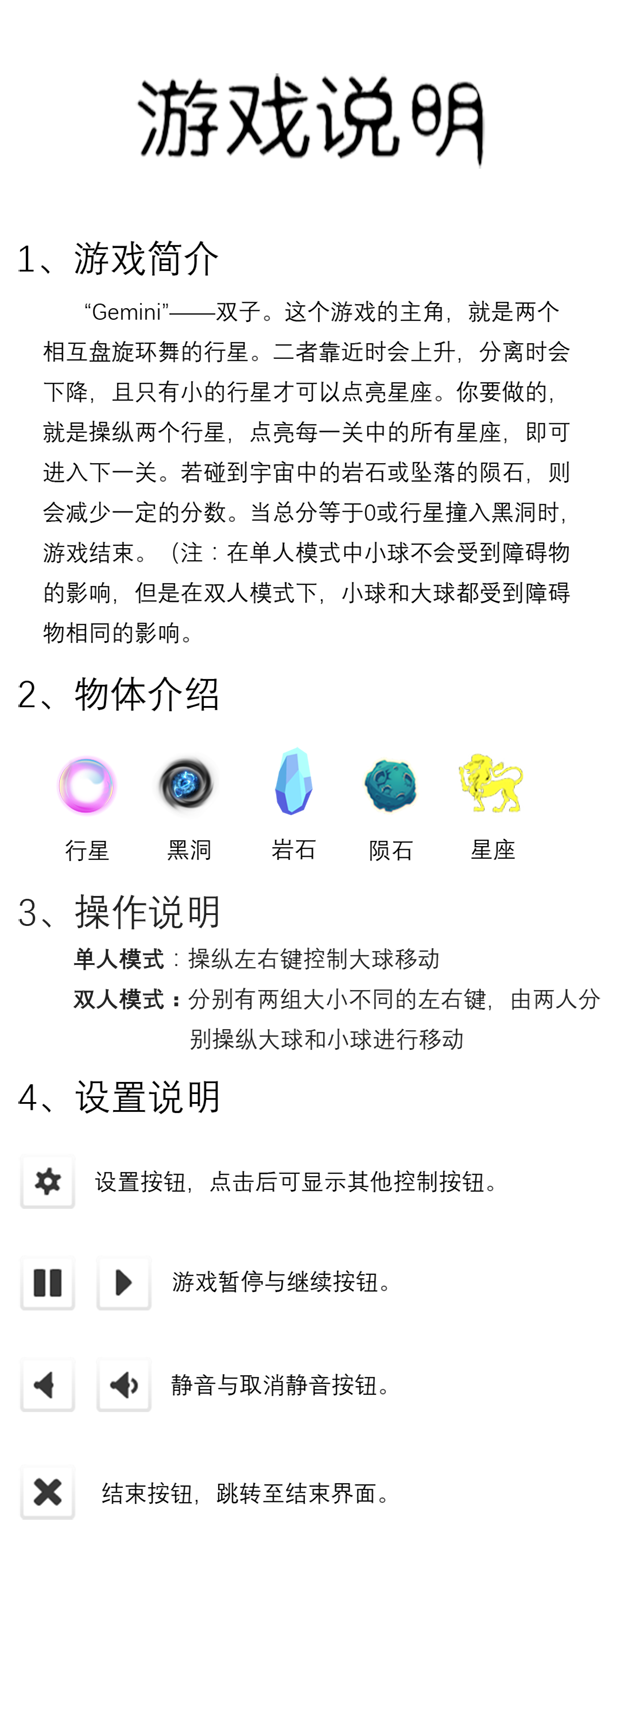
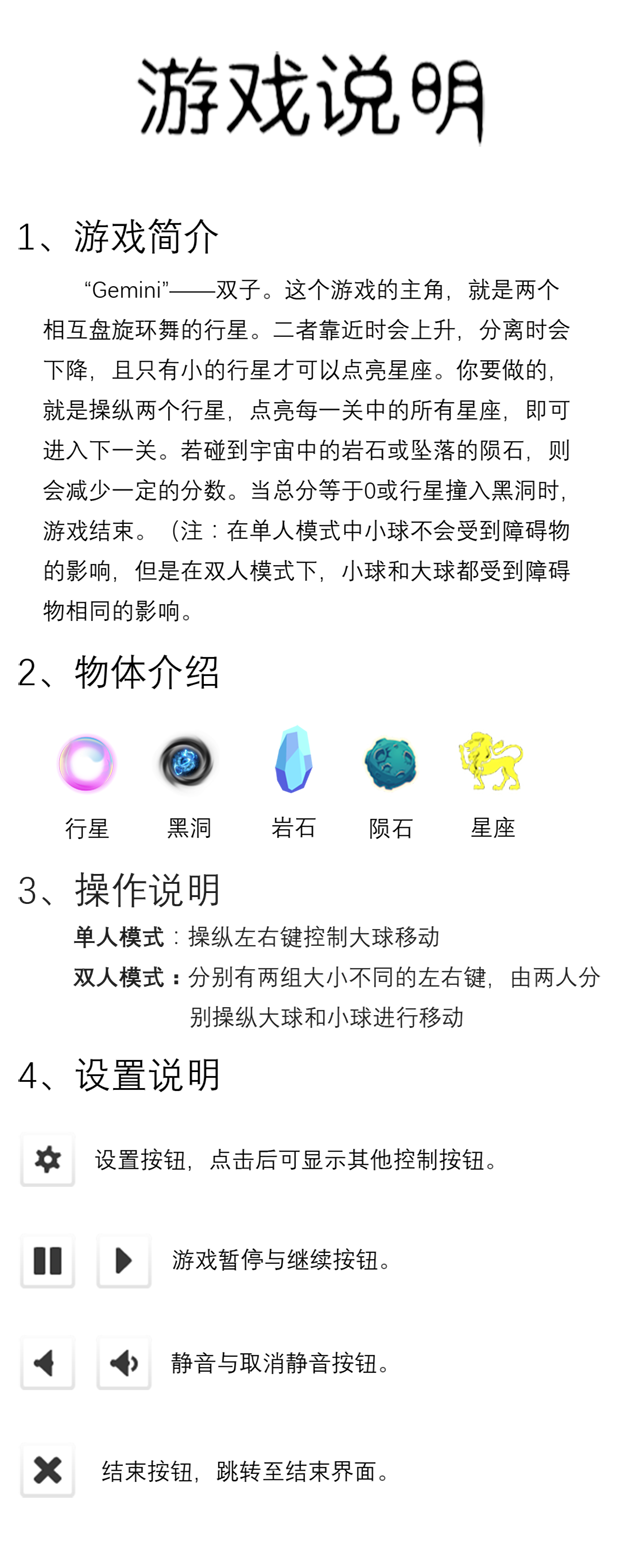
0.4.18 1.加入结束界面中level显示 2.调整了帮助界面显示内容的尺寸

diff --git a/bin/js/ui/layaUI.max.all.js b/bin/js/ui/layaUI.max.all.js
@@ -22,7 +22,7 @@ var ui;
             _super.prototype.createChildren.call(this);
             this.createView(ui.EndViewUI.uiView);
         };
-        EndViewUI.uiView = { "type": "View", "props": { "y": 0, "x": 0, "width": 800, "height": 600 }, "child": [{ "type": "Image", "props": { "y": 0, "x": 0, "width": 800, "var": "backgroundView", "skin": "ui/background/EndBackGround.jpg", "mouseThrough": true, "height": 600, "disabled": false }, "child": [{ "type": "Image", "props": { "y": 430, "x": 50, "width": 100, "visible": true, "var": "rankButton", "skin": "ui/button/SelectButton.png", "mouseEnabled": true, "hitTestPrior": true, "height": 100, "disabled": false }, "child": [{ "type": "Text", "props": { "y": 26, "x": 24, "width": 50, "text": "排", "overflow": "hidden", "height": 50, "fontSize": 40, "font": "Microsoft YaHei", "color": "#ffffff", "bold": true, "align": "center" } }] }, { "type": "Image", "props": { "y": 300, "x": 50, "width": 100, "visible": true, "var": "startButton", "skin": "ui/button/SelectButton.png", "mouseEnabled": true, "hitTestPrior": true, "height": 100, "disabled": false, "alpha": 1 }, "child": [{ "type": "Text", "props": { "y": 23, "x": 24, "width": 50, "text": "始", "strokeColor": "#000000", "overflow": "hidden", "height": 50, "fontSize": 40, "font": "Microsoft YaHei", "color": "#ffffff", "bold": true, "align": "center" } }] }, { "type": "Box", "props": { "y": 150, "x": 250, "width": 300, "visible": false, "var": "scoreView", "height": 60 }, "child": [{ "type": "Clip", "props": { "y": 16, "x": 246, "width": 30, "skin": "ui/else/clip_number.png", "name": "item3", "height": 40, "clipX": 10 } }, { "type": "Clip", "props": { "y": 16, "x": 202, "width": 30, "skin": "ui/else/clip_number.png", "name": "item2", "height": 40, "clipX": 10 } }, { "type": "Clip", "props": { "y": 16, "x": 157, "width": 30, "skin": "ui/else/clip_number.png", "name": "item1", "index": 0, "height": 40, "clipX": 10 } }, { "type": "Text", "props": { "y": 15, "x": 0, "width": 150, "valign": "middle", "text": "Score:", "height": 40, "fontSize": 40, "font": "SimSun", "color": "#ffff00", "bold": true, "alpha": 0.7, "align": "left" } }] }] }] };
+        EndViewUI.uiView = { "type": "View", "props": { "y": 0, "x": 0, "width": 800, "height": 600 }, "child": [{ "type": "Image", "props": { "y": 0, "x": 0, "width": 800, "var": "backgroundView", "skin": "ui/background/EndBackGround.jpg", "mouseThrough": true, "height": 600, "disabled": false }, "child": [{ "type": "Image", "props": { "y": 376, "x": 66, "width": 100, "visible": true, "var": "startButton", "skin": "ui/button/SelectButton.png", "mouseEnabled": true, "hitTestPrior": true, "height": 100, "disabled": false, "alpha": 1 }, "child": [{ "type": "Text", "props": { "y": 23, "x": 24, "width": 50, "text": "始", "strokeColor": "#000000", "overflow": "hidden", "height": 50, "fontSize": 40, "font": "Microsoft YaHei", "color": "#ffffff", "bold": true, "align": "center" } }] }, { "type": "Box", "props": { "y": 190, "x": 250, "width": 300, "visible": false, "var": "scoreView", "height": 60 }, "child": [{ "type": "Clip", "props": { "y": 16, "x": 246, "width": 30, "skin": "ui/else/clip_number.png", "name": "item3", "height": 40, "clipX": 10 } }, { "type": "Clip", "props": { "y": 16, "x": 202, "width": 30, "skin": "ui/else/clip_number.png", "name": "item2", "height": 40, "clipX": 10 } }, { "type": "Clip", "props": { "y": 16, "x": 157, "width": 30, "skin": "ui/else/clip_number.png", "name": "item1", "index": 0, "height": 40, "clipX": 10 } }, { "type": "Text", "props": { "y": 15, "x": 0, "width": 150, "valign": "middle", "text": "Score:", "height": 40, "fontSize": 40, "font": "SimSun", "color": "#ffff00", "bold": true, "alpha": 0.7, "align": "left" } }] }, { "type": "Box", "props": { "y": 130, "x": 250, "width": 300, "visible": false, "var": "levelView", "height": 60 }, "child": [{ "type": "Clip", "props": { "y": 16, "x": 246, "width": 30, "skin": "ui/else/clip_number.png", "name": "item3", "height": 40, "clipX": 10 } }, { "type": "Clip", "props": { "y": 16, "x": 202, "width": 30, "skin": "ui/else/clip_number.png", "name": "item2", "height": 40, "clipX": 10 } }, { "type": "Clip", "props": { "y": 16, "x": 157, "width": 30, "skin": "ui/else/clip_number.png", "name": "item1", "index": 0, "height": 40, "clipX": 10 } }, { "type": "Text", "props": { "y": 15, "x": 0, "width": 150, "valign": "middle", "text": "Level:", "height": 40, "fontSize": 40, "font": "SimSun", "color": "#ffff00", "bold": true, "alpha": 0.7, "align": "left" } }] }] }] };
         return EndViewUI;
     }(View));
     ui.EndViewUI = EndViewUI;

diff --git a/src/ui/layaUI.max.all.ts b/src/ui/layaUI.max.all.ts
@@ -4,11 +4,11 @@ import Dialog=laya.ui.Dialog;
 module ui {
     export class EndViewUI extends View {
 		public backgroundView:Laya.Image;
-		public rankButton:Laya.Image;
 		public startButton:Laya.Image;
 		public scoreView:Laya.Box;
+		public levelView:Laya.Box;
 
-        public static  uiView:any ={"type":"View","props":{"y":0,"x":0,"width":800,"height":600},"child":[{"type":"Image","props":{"y":0,"x":0,"width":800,"var":"backgroundView","skin":"ui/background/EndBackGround.jpg","mouseThrough":true,"height":600,"disabled":false},"child":[{"type":"Image","props":{"y":430,"x":50,"width":100,"visible":true,"var":"rankButton","skin":"ui/button/SelectButton.png","mouseEnabled":true,"hitTestPrior":true,"height":100,"disabled":false},"child":[{"type":"Text","props":{"y":26,"x":24,"width":50,"text":"排","overflow":"hidden","height":50,"fontSize":40,"font":"Microsoft YaHei","color":"#ffffff","bold":true,"align":"center"}}]},{"type":"Image","props":{"y":300,"x":50,"width":100,"visible":true,"var":"startButton","skin":"ui/button/SelectButton.png","mouseEnabled":true,"hitTestPrior":true,"height":100,"disabled":false,"alpha":1},"child":[{"type":"Text","props":{"y":23,"x":24,"width":50,"text":"始","strokeColor":"#000000","overflow":"hidden","height":50,"fontSize":40,"font":"Microsoft YaHei","color":"#ffffff","bold":true,"align":"center"}}]},{"type":"Box","props":{"y":150,"x":250,"width":300,"visible":false,"var":"scoreView","height":60},"child":[{"type":"Clip","props":{"y":16,"x":246,"width":30,"skin":"ui/else/clip_number.png","name":"item3","height":40,"clipX":10}},{"type":"Clip","props":{"y":16,"x":202,"width":30,"skin":"ui/else/clip_number.png","name":"item2","height":40,"clipX":10}},{"type":"Clip","props":{"y":16,"x":157,"width":30,"skin":"ui/else/clip_number.png","name":"item1","index":0,"height":40,"clipX":10}},{"type":"Text","props":{"y":15,"x":0,"width":150,"valign":"middle","text":"Score:","height":40,"fontSize":40,"font":"SimSun","color":"#ffff00","bold":true,"alpha":0.7,"align":"left"}}]}]}]};
+        public static  uiView:any ={"type":"View","props":{"y":0,"x":0,"width":800,"height":600},"child":[{"type":"Image","props":{"y":0,"x":0,"width":800,"var":"backgroundView","skin":"ui/background/EndBackGround.jpg","mouseThrough":true,"height":600,"disabled":false},"child":[{"type":"Image","props":{"y":376,"x":66,"width":100,"visible":true,"var":"startButton","skin":"ui/button/SelectButton.png","mouseEnabled":true,"hitTestPrior":true,"height":100,"disabled":false,"alpha":1},"child":[{"type":"Text","props":{"y":23,"x":24,"width":50,"text":"始","strokeColor":"#000000","overflow":"hidden","height":50,"fontSize":40,"font":"Microsoft YaHei","color":"#ffffff","bold":true,"align":"center"}}]},{"type":"Box","props":{"y":190,"x":250,"width":300,"visible":false,"var":"scoreView","height":60},"child":[{"type":"Clip","props":{"y":16,"x":246,"width":30,"skin":"ui/else/clip_number.png","name":"item3","height":40,"clipX":10}},{"type":"Clip","props":{"y":16,"x":202,"width":30,"skin":"ui/else/clip_number.png","name":"item2","height":40,"clipX":10}},{"type":"Clip","props":{"y":16,"x":157,"width":30,"skin":"ui/else/clip_number.png","name":"item1","index":0,"height":40,"clipX":10}},{"type":"Text","props":{"y":15,"x":0,"width":150,"valign":"middle","text":"Score:","height":40,"fontSize":40,"font":"SimSun","color":"#ffff00","bold":true,"alpha":0.7,"align":"left"}}]},{"type":"Box","props":{"y":130,"x":250,"width":300,"visible":false,"var":"levelView","height":60},"child":[{"type":"Clip","props":{"y":16,"x":246,"width":30,"skin":"ui/else/clip_number.png","name":"item3","height":40,"clipX":10}},{"type":"Clip","props":{"y":16,"x":202,"width":30,"skin":"ui/else/clip_number.png","name":"item2","height":40,"clipX":10}},{"type":"Clip","props":{"y":16,"x":157,"width":30,"skin":"ui/else/clip_number.png","name":"item1","index":0,"height":40,"clipX":10}},{"type":"Text","props":{"y":15,"x":0,"width":150,"valign":"middle","text":"Level:","height":40,"fontSize":40,"font":"SimSun","color":"#ffff00","bold":true,"alpha":0.7,"align":"left"}}]}]}]};
         constructor(){ super()}
         createChildren():void {
         			View.regComponent("Text",laya.display.Text);

diff --git a/bin/js/view/EndView.js b/bin/js/view/EndView.js
@@ -12,6 +12,7 @@ var __extends = (this && this.__extends) || (function () {
 var Game;
 (function (Game) {
     Game.score = 0; //玩家得分
+    Game.level = 0; //进入等级
 })(Game || (Game = {}));
 //游戏的结束界面
 var EndView = /** @class */ (function (_super) {
@@ -22,8 +23,9 @@ var EndView = /** @class */ (function (_super) {
     }
     //结束界面还原初始化设置
     EndView.prototype.init = function () {
-        //避免下次到结束界面时显示分数
+        //避免下次到结束界面时显示分数、等级
         this.scoreView.visible = false;
+        this.levelView.visible = false;
         //去掉已有的结束字样
         while (this.removeChildByName("endText"))
             ;
@@ -42,7 +44,7 @@ var EndView = /** @class */ (function (_super) {
             letterText.y = -300;
             if (i === len - 1) //最后一个字母之后调用回调函数
              {
-                Laya.Tween.to(letterText, { y: endY }, 400, Laya.Ease.elasticOut, Laya.Handler.create(this, this.showScore), i * 400);
+                Laya.Tween.to(letterText, { y: endY }, 400, Laya.Ease.elasticOut, Laya.Handler.create(this, this.showAll), i * 400);
             }
             Laya.Tween.to(letterText, { y: endY }, 400, Laya.Ease.elasticOut, null, i * 400);
         }
@@ -57,6 +59,23 @@ var EndView = /** @class */ (function (_super) {
         this.backgroundView.addChild(letter);
         return letter;
     };
+    //显示所有结果
+    EndView.prototype.showAll = function () {
+        this.showLevel();
+        this.showScore();
+    };
+    //显示等级
+    EndView.prototype.showLevel = function () {
+        var data = {};
+        var temp = Game.level;
+        for (var i = 3; i >= 1; i--) {
+            data["item" + i] = { index: Math.floor(temp % 10) };
+            temp /= 10;
+        }
+        this.levelView.dataSource = data;
+        this.levelView.visible = true;
+    };
+    //显示分数
     EndView.prototype.showScore = function () {
         var data = {};
         var temp = Game.score;

diff --git a/src/view/EndView.ts b/src/view/EndView.ts
@@ -1,6 +1,7 @@
 //游戏的一些参数
 namespace Game{
     export let score: number = 0;//玩家得分
+    export let level: number = 0;//进入等级
 }
 
 //游戏的结束界面
@@ -14,8 +15,9 @@ class EndView extends ui.EndViewUI{
     //结束界面还原初始化设置
     public init():void
     {
-        //避免下次到结束界面时显示分数
+        //避免下次到结束界面时显示分数、等级
         this.scoreView.visible=false;
+        this.levelView.visible=false;
         //去掉已有的结束字样
         while(this.removeChildByName("endText"));
     }
@@ -36,7 +38,7 @@ class EndView extends ui.EndViewUI{
             letterText.y=-300;
             if(i===len-1)//最后一个字母之后调用回调函数
             {
-                Laya.Tween.to(letterText, { y: endY }, 400, Laya.Ease.elasticOut, Laya.Handler.create(this, this.showScore), i * 400);
+                Laya.Tween.to(letterText, { y: endY }, 400, Laya.Ease.elasticOut, Laya.Handler.create(this, this.showAll), i * 400);
             }
             Laya.Tween.to(letterText, { y: endY }, 400, Laya.Ease.elasticOut, null, i * 400);
         }
@@ -54,6 +56,27 @@ class EndView extends ui.EndViewUI{
         return letter;
     }
 
+    //显示所有结果
+    private showAll():void
+    {
+        this.showLevel();
+        this.showScore();
+    }
+
+     //显示等级
+    private showLevel():void
+    {
+        let data:any = {}
+        let temp:number = Game.level;
+        for(let i:number=3; i>=1; i--){
+            data["item"+i] = {index:Math.floor(temp%10)};
+            temp /= 10;
+        }
+        this.levelView.dataSource = data;
+        this.levelView.visible=true;
+    }
+
+    //显示分数
     private showScore():void
     {
         let data:any = {}

diff --git a/src/GameMain.ts b/src/GameMain.ts
@@ -121,15 +121,7 @@ class GameMain{
         GameMain.endView.startButton.on(Laya.Event.MOUSE_OUT,this,function(){
             GameMain.endView.startButton.scale(1,1);
         });
-        GameMain.endView.startButton.on(Laya.Event.CLICK,this,this.toStartView);
-
-        //结束界面排行榜查看按钮
-        GameMain.endView.rankButton.on(Laya.Event.MOUSE_MOVE,this,function(){
-            GameMain.endView.rankButton.scale(1.1,1.1);
-        });
-        GameMain.endView.rankButton.on(Laya.Event.MOUSE_OUT,this,function(){
-            GameMain.endView.rankButton.scale(1,1);
-        });               
+        GameMain.endView.startButton.on(Laya.Event.CLICK,this,this.toStartView);              
     }
 
     //到单人游戏界面

diff --git a/bin/js/GameMain.js b/bin/js/GameMain.js
@@ -96,13 +96,6 @@ var GameMain = /** @class */ (function () {
             GameMain.endView.startButton.scale(1, 1);
         });
         GameMain.endView.startButton.on(Laya.Event.CLICK, this, this.toStartView);
-        //结束界面排行榜查看按钮
-        GameMain.endView.rankButton.on(Laya.Event.MOUSE_MOVE, this, function () {
-            GameMain.endView.rankButton.scale(1.1, 1.1);
-        });
-        GameMain.endView.rankButton.on(Laya.Event.MOUSE_OUT, this, function () {
-            GameMain.endView.rankButton.scale(1, 1);
-        });
     };
     //到单人游戏界面
     GameMain.prototype.toOnePlayerGameView = function () {

diff --git a/bin/js/view/GameView.js b/bin/js/view/GameView.js
@@ -152,6 +152,8 @@ var GameView = /** @class */ (function (_super) {
         }
         //不断更新游戏分数,最小值为0
         Game.score = Math.max(this._scoreIndicator.data, 0);
+        //不断更新游戏等级,最小值为1
+        Game.level = Math.max(this._level, 1);
         if (this._level > 1 && this.hasTouchedAllZodiacs()) { //除了第一关，如果触碰到了所有的星座
             this.enterNewLevel(); //则进入下一关
         }

diff --git a/src/view/GameView.ts b/src/view/GameView.ts
@@ -194,6 +194,8 @@ class GameView extends ui.GameViewUI{
         }
         //不断更新游戏分数,最小值为0
         Game.score=Math.max(this._scoreIndicator.data,0);
+        //不断更新游戏等级,最小值为1
+        Game.level=Math.max(this._level,1);
 
         if(this._level > 1 &&  this.hasTouchedAllZodiacs()){//除了第一关，如果触碰到了所有的星座
             this.enterNewLevel();//则进入下一关

diff --git a/src/view/StartView.ts b/src/view/StartView.ts
@@ -4,8 +4,7 @@ class StartView extends ui.StartViewUI{
     constructor()
     {
         super();
-
-        
+       
     }
 
 }
